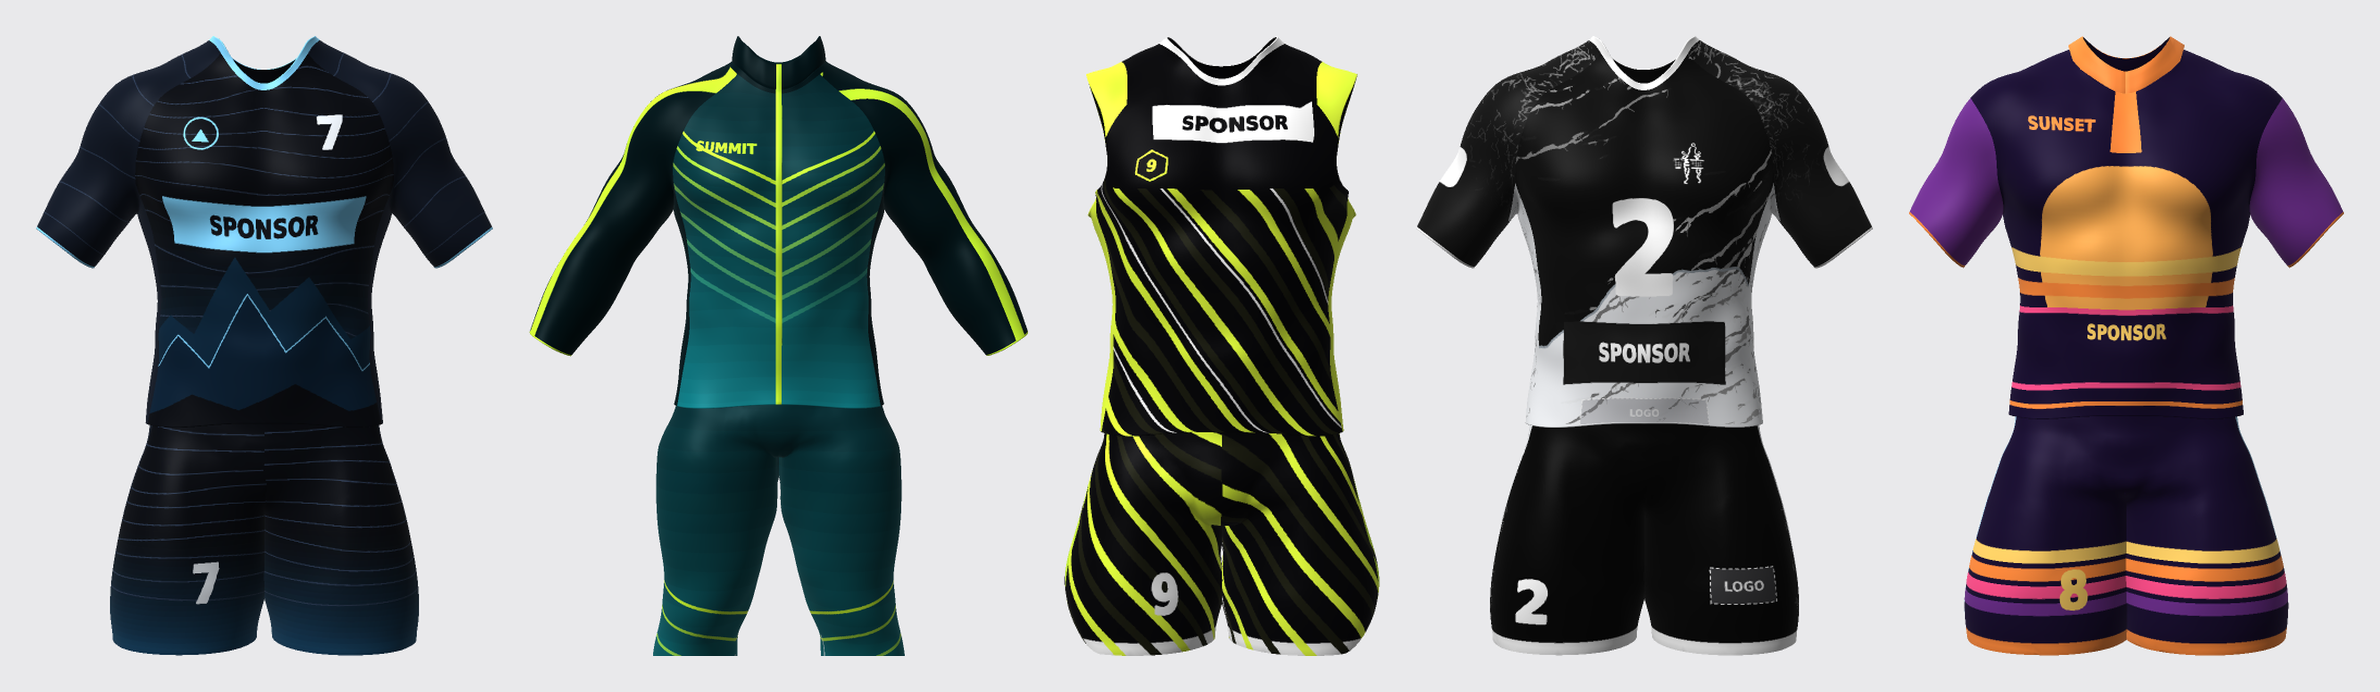
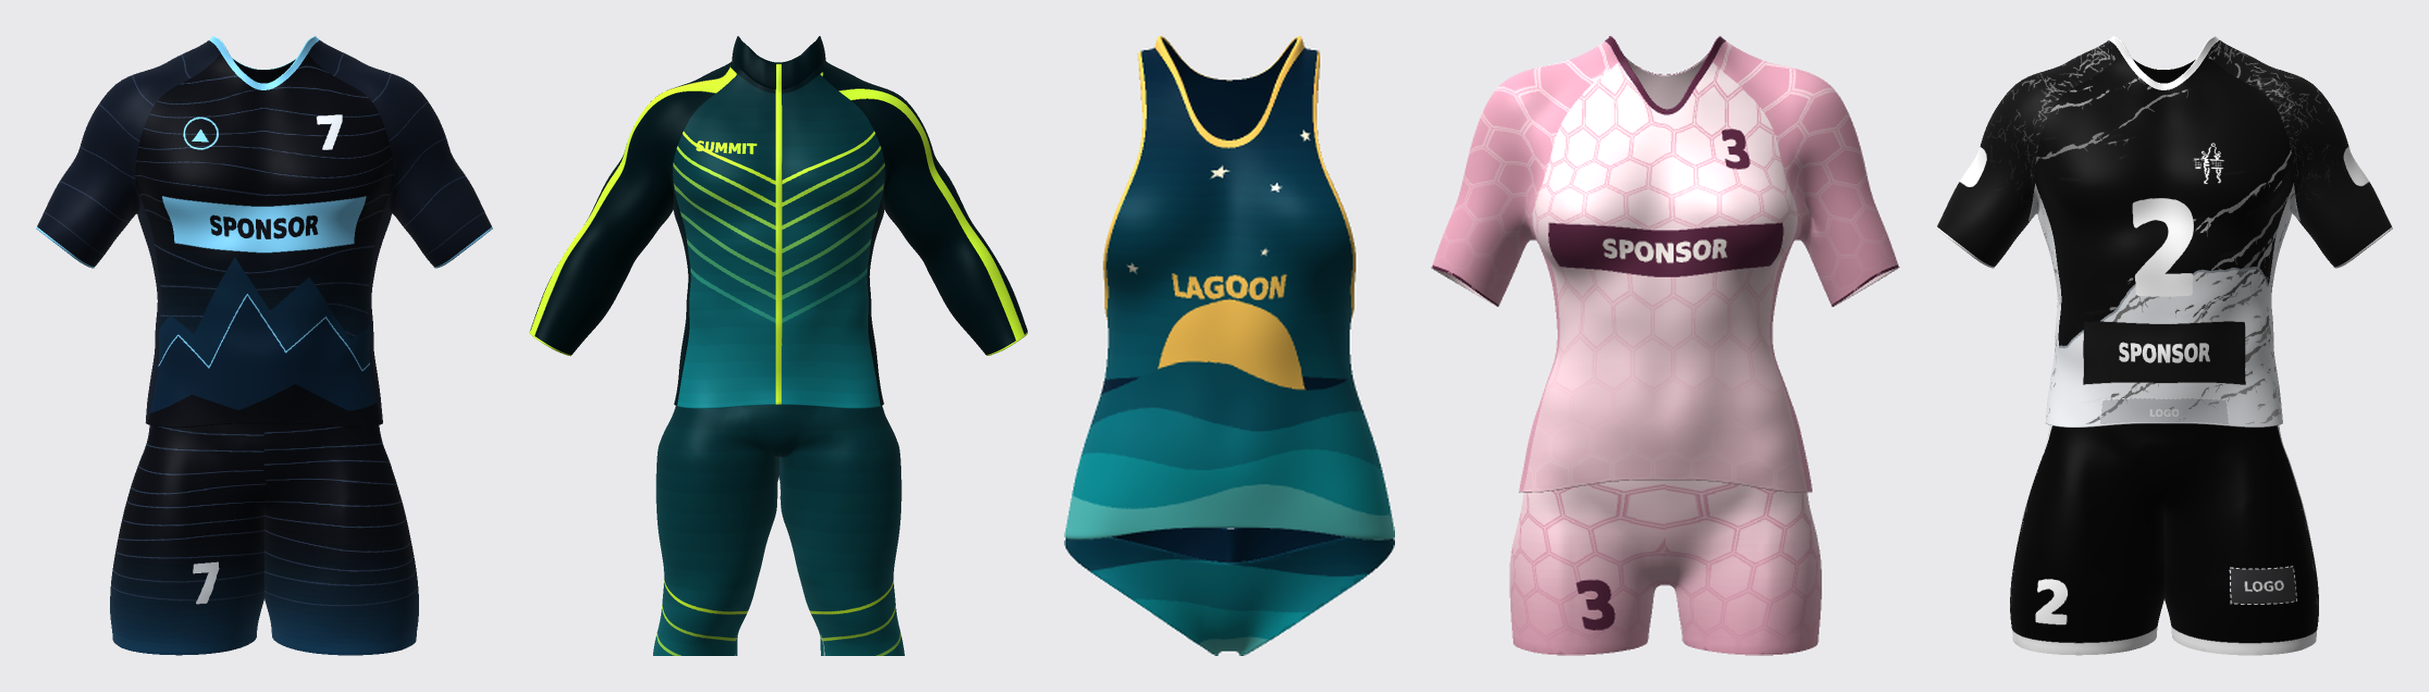
Trim the README gallery and rebuild the hero image
Take Neon Court, Mono Chevron, Sunset Retro and the VBC Stainach warm-up
shirt out of the README's gallery, and rebuild the hero image from designs
that stay (it showed two of them). The files stay in docs/examples, which
still lists every design.

diff --git a/README.md b/README.md
@@ -14,7 +14,7 @@
 </p>
 
 <p align="center">
-  <img src="docs/images/hero.png" alt="Five example kits: Alpine Night, Summit Teal, Neon Court, a black and white contrast kit and Sunset Retro" width="100%">
+  <img src="docs/images/hero.png" alt="Five example kits: Alpine Night, Summit Teal, Lagoon, Rose Quartz and a black and white contrast kit" width="100%">
 </p>
 
 OpenJersey is a jersey designer written in Rust. You put a design on a 3D garment and edit it in two places at once: on the model itself, and on the flat **print sheet** that a sublimation printer needs, with every piece of the garment laid out. What you change in one shows in the other.
@@ -34,16 +34,12 @@ It also has an [MCP](https://modelcontextprotocol.io) interface, so Claude Code,
 
 ## Examples
 
-Eleven designs, all in [`docs/examples`](docs/examples/README.md) as files you can open. Nine were designed through MCP; the last two are VBC Stainach's own kits.
+A selection of the designs in [`docs/examples`](docs/examples/README.md), which are files you can open. Six were designed through MCP; the last is one of VBC Stainach's own kits.
 
 <table>
   <tr>
     <td align="center"><img src="docs/images/alpine-night.png" width="440"><br><b>Alpine Night</b><br>layered mountains, contour lines</td>
     <td align="center"><img src="docs/images/summit-teal.png" width="440"><br><b>Summit Teal</b><br>track suit, fading chevrons</td>
-  </tr>
-  <tr>
-    <td align="center"><img src="docs/images/neon-court.png" width="440"><br><b>Neon Court</b><br>black with slanted neon stripes</td>
-    <td align="center"><img src="docs/images/mono-chevron.png" width="440"><br><b>Mono Chevron</b><br>black and white chevrons</td>
   </tr>
   <tr>
     <td align="center"><img src="docs/images/coral-wave.png" width="440"><br><b>Coral Wave</b><br>sports top and slip, waves and stars</td>
@@ -54,11 +50,7 @@ Eleven designs, all in [`docs/examples`](docs/examples/README.md) as files you c
     <td align="center"><img src="docs/images/glacier-hood.png" width="440"><br><b>Glacier</b><br>hooded jacket, snow stars</td>
   </tr>
   <tr>
-    <td align="center" colspan="2"><img src="docs/images/sunset-retro.png" width="440"><br><b>Sunset Retro</b><br>retro stripes and a setting sun</td>
-  </tr>
-  <tr>
-    <td align="center"><img src="docs/images/vbc-stainach.png" width="440"><br><b>VBC Stainach</b><br>warm-up shirt with a mountain panel</td>
-    <td align="center"><img src="docs/images/vbc-contrast-lines.png" width="440"><br><b>VBC Stainach, contrast kit</b><br>black and white marble lines</td>
+    <td align="center" colspan="2"><img src="docs/images/vbc-contrast-lines.png" width="440"><br><b>VBC Stainach, contrast kit</b><br>black and white marble lines</td>
   </tr>
 </table>
 
